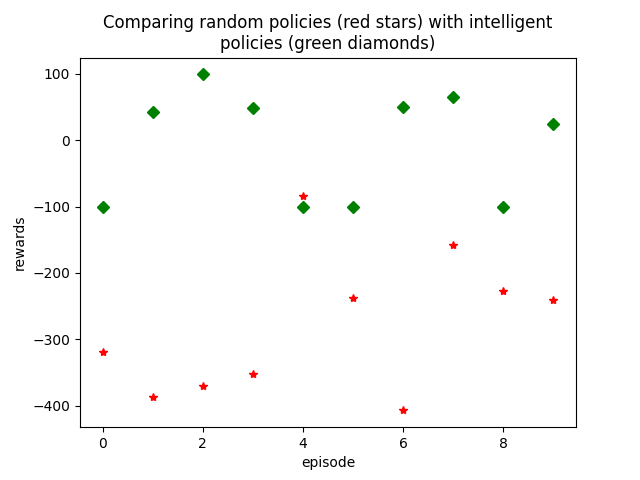
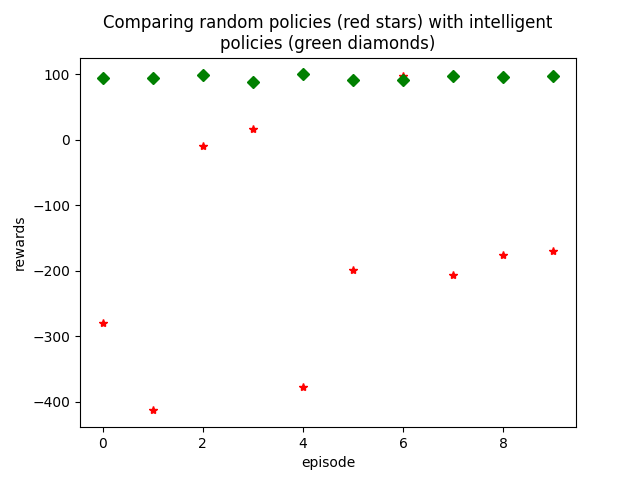
The intelligent agent knows where the exit is.

diff --git a/main.py b/main.py
@@ -88,16 +88,39 @@ def main():
 # We advise you to start with a very simple policy, then maybe try a random policy, and finally an 'intelligent' policy.
 # 
 
-def basic_policy(observation):
+def basic_policy(observation, envir):
     action = "up"
     return action
 
-def random_policy(observation):
+def random_policy(observation, envir):
     actions = ["up", "down", "left", "right"]
     upper = len(actions) - 1
     index = random.randint(0, upper)
     action = actions[index]
     return action
+
+def _get_order_of_comparisons(envir):
+    _UP = 0
+    _DOWN = 1
+    _LEFT = 2
+    _RIGHT = 3
+    a_x, a_y = envir.position_agent
+    exit_x, exit_y = envir.position_exit
+    x = exit_x - a_x
+    y = exit_y - a_y
+    _idx = np.zeros(4, dtype=int)
+    if np.abs(x) > np.abs(y):
+        _idx[0] = _DOWN if x > 0 else _UP
+        _idx[2] = _UP if x > 0 else _DOWN
+        _idx[1] = _RIGHT if y > 0 else _LEFT
+        _idx[3] = _LEFT if y > 0 else _RIGHT
+    else:
+        _idx[0] = _RIGHT if y > 0 else _LEFT
+        _idx[2] = _LEFT if y > 0 else _RIGHT
+        _idx[1] = _DOWN if x > 0 else _UP
+        _idx[3] = _UP if x > 0 else _DOWN
+
+    return _idx
 
 def _check_obs_up(type, obs_up):
     if obs_up == type:
@@ -119,7 +142,7 @@ def _check_obs_right(type, obs_right):
         return "right"
     return ""
     
-def intelligent_policy(observation):
+def intelligent_policy(observation, envir):
     EMPTY = 0
     OBSTACLE = 1
     LAVA = 2
@@ -148,8 +171,9 @@ def intelligent_policy(observation):
     # So the sequence of checks are randomised to prevent this bias.
     select_check = [_check_obs_up, _check_obs_down, _check_obs_left, _check_obs_right]
     select_param = [obs_up, obs_down, obs_left, obs_right]
-    _idx = list(range(0, 4))
-    random.shuffle(_idx)
+    """     _idx = list(range(0, 4))
+    random.shuffle(_idx) """
+    _idx = _get_order_of_comparisons(envir)
     action = ""
     for idx in _idx:
         _function = select_check[idx]
@@ -169,7 +193,7 @@ def intelligent_policy(observation):
         return "left"
     if obs_right == LAVA:
         return "right"
-    return random_policy(observation)   # Agent is surrounded by obstacles and cannot move! 
+    return random_policy(observation, envir)   # Agent is surrounded by obstacles and cannot move! 
 
 # # Part 3a - Evaluating your policy
 # 
@@ -188,11 +212,11 @@ def run_single_exp(envir, policy):
     done = False
     total_reward = 0
     while not done:
-        action = policy(obs)
+        action = policy(obs, envir)
         print("action = ", action)
         obs, reward, done = envir.step(action)
         total_reward += reward
-        envir.display()
+        #envir.display()
     
     return total_reward
 

diff --git a/dungeon.py b/dungeon.py
@@ -46,6 +46,7 @@ class Dungeon:
         
         new_x, new_y = self.new_position_agent
         new_state = int(self.dungeon[new_x][new_y])
+        print("agent = ", self.position_agent)
         if new_state != self.OBSTACLE:
             # Return cell to previous value as the agent moves
             self.dungeon[curr_x][curr_y] = self.prev_agent_content
@@ -53,7 +54,10 @@ class Dungeon:
             # Put agent on the new cell
             self.dungeon[new_x][new_y] = self.AGENT
             self.position_agent = self.new_position_agent
-
+        print("new agent = ", self.position_agent)
+        print("action = ", action)
+        print("exit = ", self.position_exit)
+        self.display()
         # calculate reward
         reward = self.rewards[new_state]
 
